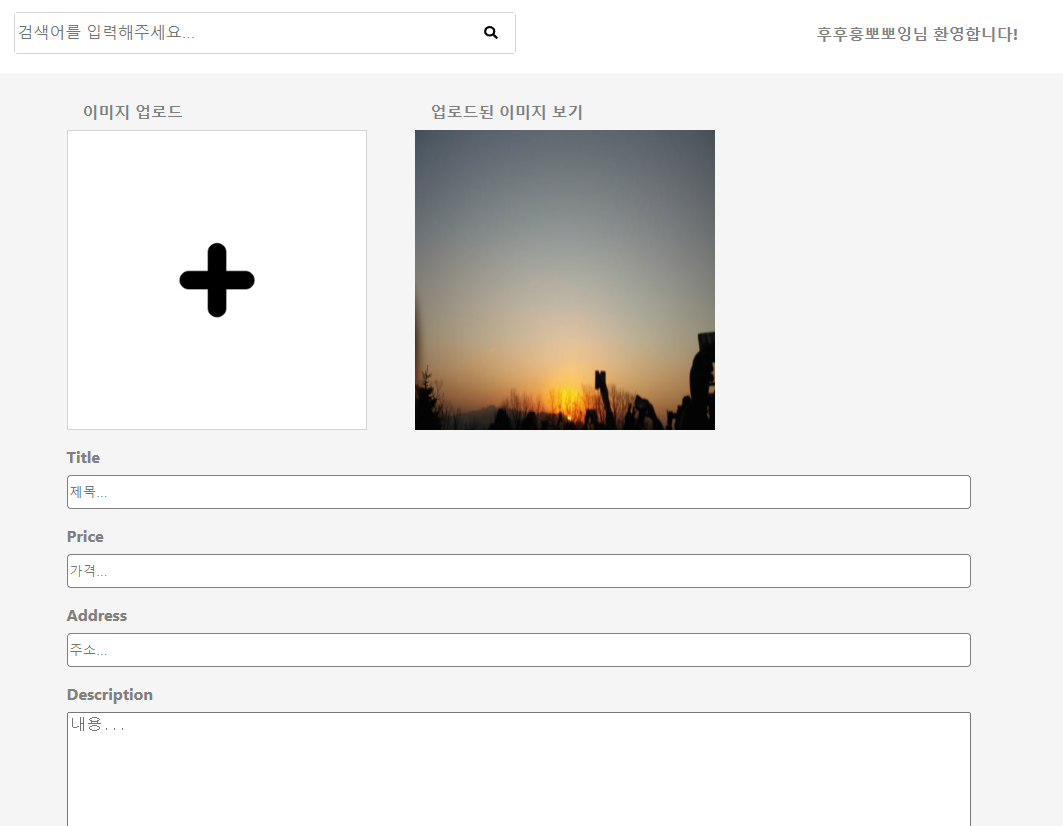
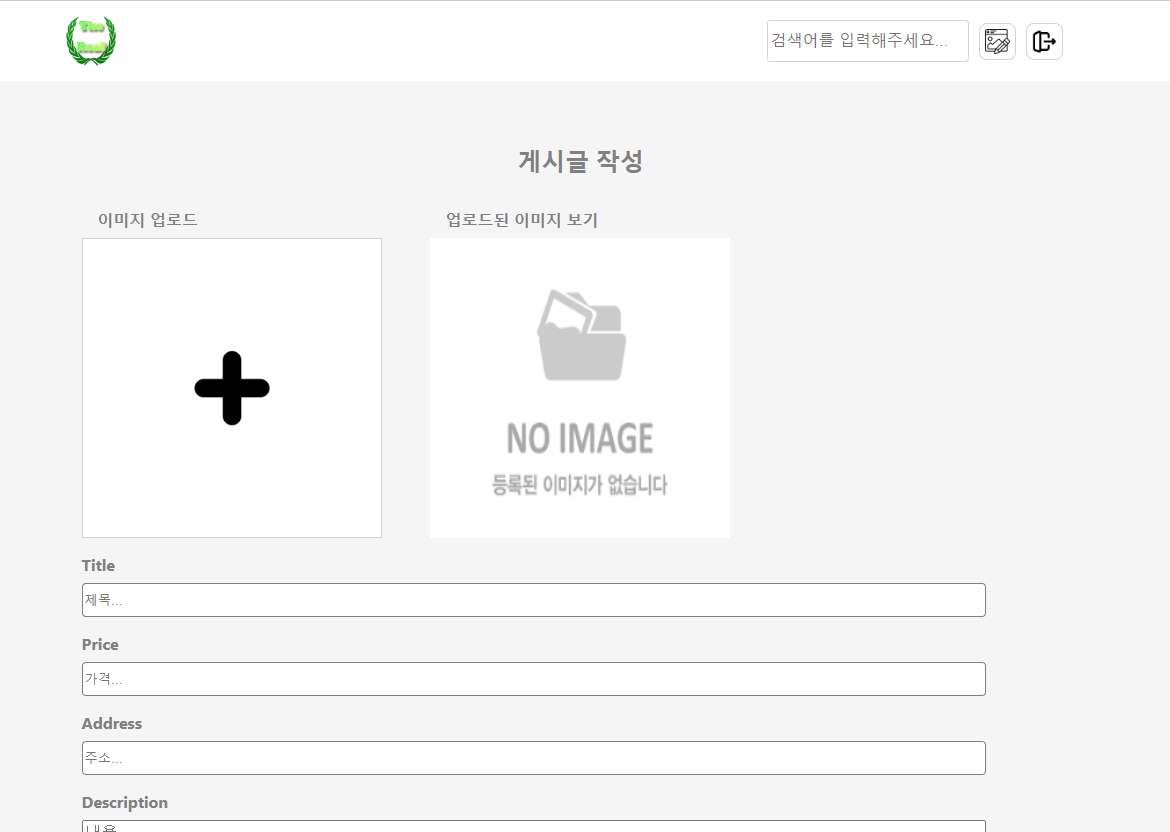
shopping image 변경 및 설명 추가, header text 변경

diff --git a/pages/portFolio/Shopping.tsx b/pages/portFolio/Shopping.tsx
@@ -28,7 +28,8 @@ const Shopping = () => {
                     Google Firebase의 RealTime DB를 공부해 처음으로 DB통신이란걸 해본 프로젝트입니다.<br />
                     Login 또한 Google Auth를 사용해 Google Login을 구현했습니다.<br />
                     DB쪽 관련 지식이 모자란 상태에서 시작을 해 개발에 어려움이 있었지만<br />
-                    해당 프로젝트를 진행하면서 DB와 서버통신의 필요성을 느껴 더욱 열심히 해야겠다는 마음가짐을 가질수 있었습니다.
+                    해당 프로젝트를 진행하면서 DB와 서버통신의 필요성을 느껴 더욱 열심히 해야겠다는 마음가짐을 가질수 있었습니다.<br />
+                    현재 지속적으로 리팩토링 중이며 상태관리로 이번에 공부한 zustand를 사용해봤습니다.
                 </p>
             </div>
             <div className={styles.texts}>
@@ -40,6 +41,7 @@ const Shopping = () => {
                     <li>Javascript</li>
                     <li>React</li>
                     <li>Google Firebase</li>
+                    <li>zustand</li>
                 </ul>
             </div>
             <div className={styles.texts}>

diff --git a/components/SlideItem/SlideItem.tsx b/components/SlideItem/SlideItem.tsx
@@ -49,7 +49,7 @@ const SlideItem = ({list, id}: ISlideItem) => {
             }
             {list === 'poke' && <Image src='/imgs/pokemon/poke.png' className='item' width={350} height={400} alt='poke' />}
             {list === 'Jistargram' && <Image src='/imgs/jigram/jigram.png' className='item' width={350} height={400} alt='jigram' />}
-            {list === 'shopping' && <Image src='/imgs/shopping/shopping.png' className='item' width={350} height={400} alt='shopping' />}
+            {list === 'shopping' && <Image src='/imgs/shopping/mobileShopping.png' className='item' width={350} height={400} alt='shopping' />}
             {list === 'cloneTube' && <Image src='/imgs/youtube/youtube.png' className='item' width={350} height={400} alt='cloneTube' />}
         </div>
     )

diff --git a/pages/index.tsx b/pages/index.tsx
@@ -9,7 +9,7 @@ const Home: NextPage = () => {
     <div className={styles.container}>
       <Head>
         <link rel="shortcut icon" href="/favicon.ico" />
-        <title>Developer Jihun.kim</title>
+        <title>프론트엔드 개발자 | 김지훈</title>
         <meta name="description" content="Jihun's proFile Site"></meta>
         <meta name="author" content="jihun"></meta>
         <meta name="keyword" content="frontend, react, 프론트엔드, 개발자, 포트폴리오, Javascript"></meta>

diff --git a/components/SlideItem/slideItemObj.ts b/components/SlideItem/slideItemObj.ts
@@ -14,7 +14,7 @@ export const slideItemObj: ISlideItemObj[] = [
     {
         id: 2,
         title: '간단한 중고거래 Web App',
-        tools: ['JavaScript', 'ReactJs', 'Google Firebase', 'CSS', 'HTML']
+        tools: ['JavaScript', 'ReactJs', 'Google Firebase', 'CSS', 'HTML', 'Zustand']
     },
     {
         id: 3,
